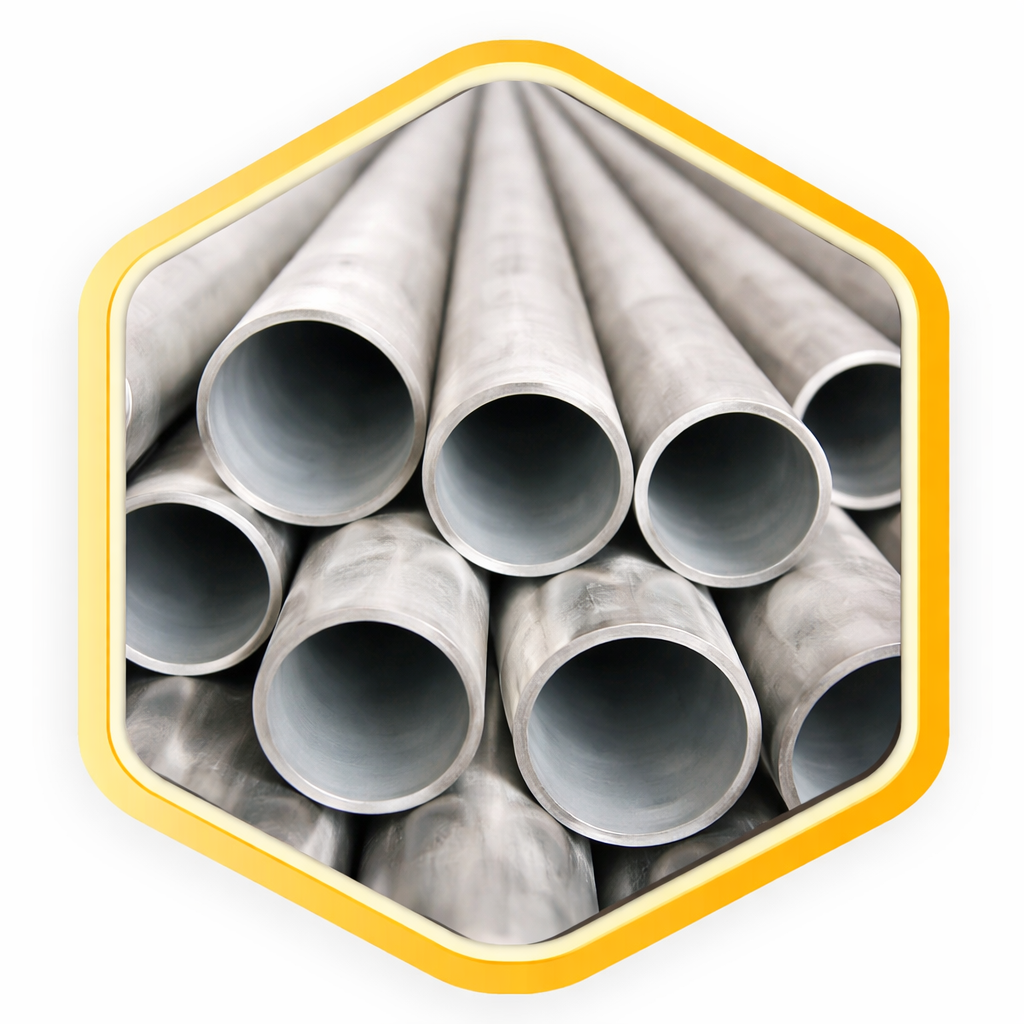
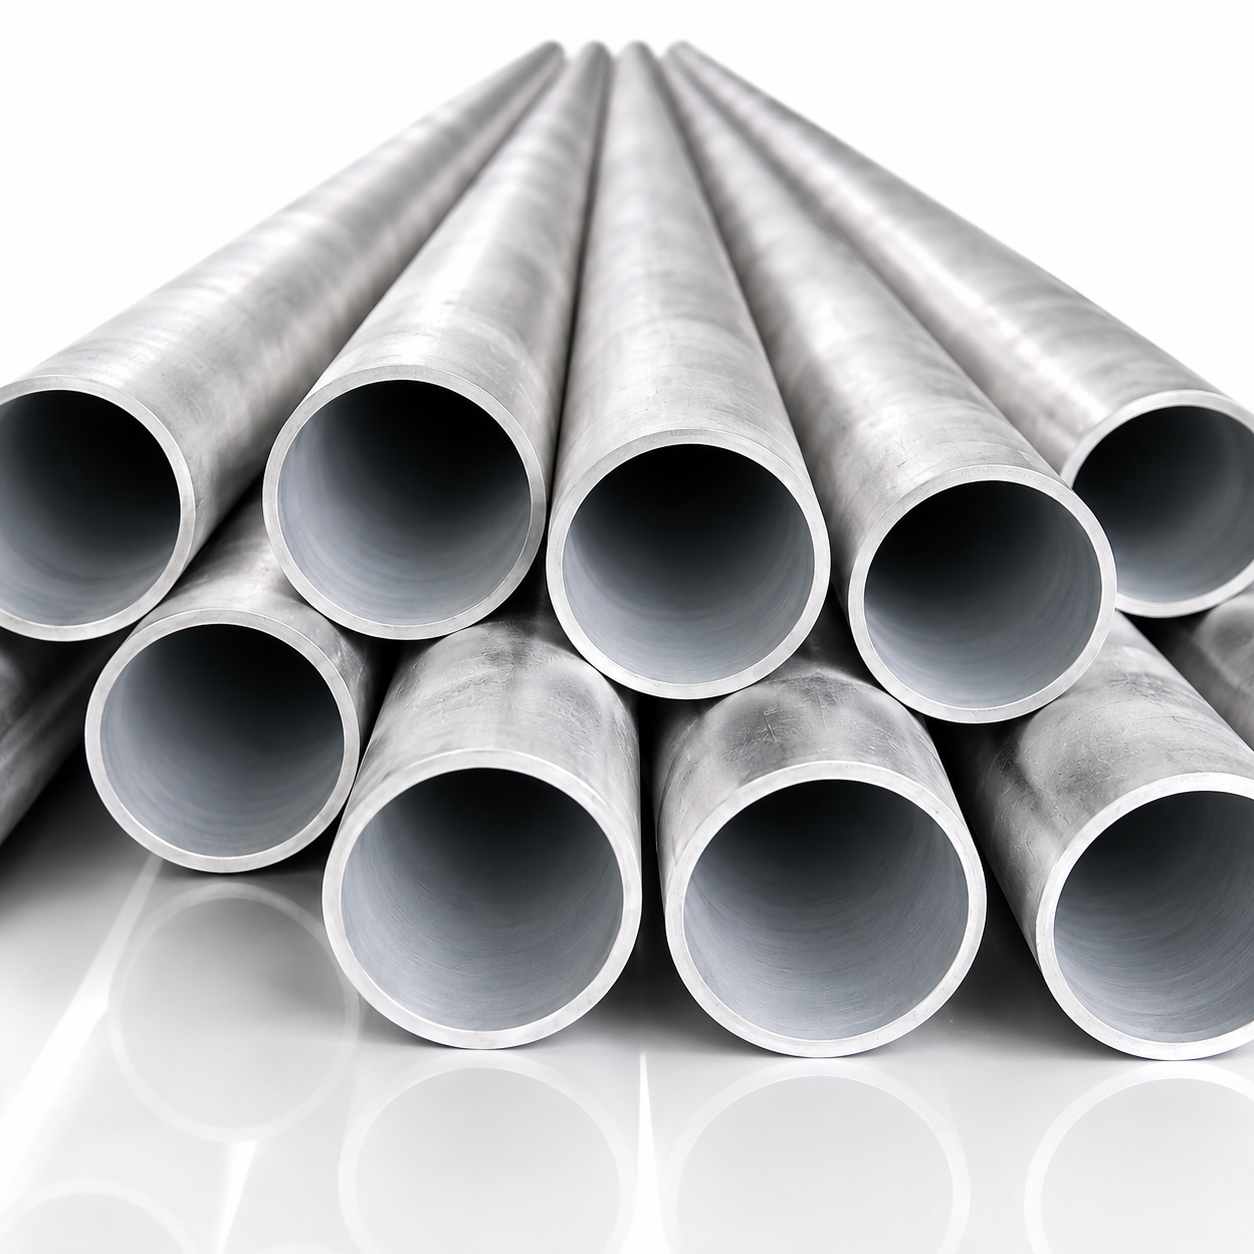
changed images for the stainless steel types

diff --git a/config/images/steel.ts b/config/images/steel.ts
@@ -17,11 +17,11 @@ export const STEEL_IMAGES = {
         sch10SsWeldedPipe1Png: '/Steel/pipes-tubes/types/erw/sch-10-ss-welded-pipe1.png',
       },
       tube: {
-        stainlessSteelSeamlessTube11Png: '/Steel/placeholder-stainlessSteelSeamlessTube11Png.jpg',
-        ssWeldedTubing11Png: '/Steel/placeholder-ssWeldedTubing11Png.jpg',
-        coldDrawnStainlessSteelTube11Png: '/Steel/placeholder-coldDrawnStainlessSteelTube11Png.jpg',
-        stainlessSteelRoundTube11Png: '/Steel/placeholder-stainlessSteelRoundTube11Png.jpg',
-        ssThickWallTubes11Png: '/Steel/placeholder-ssThickWallTubes11Png.jpg',
+        stainlessSteelSeamlessTube11Png: '/Steel/pipes-tubes/types/tube/stainless-steel-seamless-tube1.png',
+        ssWeldedTubing11Png: '/Steel/pipes-tubes/types/tube/ss-welded-tubing1.png',
+        coldDrawnStainlessSteelTube11Png: '/Steel/pipes-tubes/types/tube/cold-drawn-stainless-steel-tube1.png',
+        stainlessSteelRoundTube11Png: '/Steel/pipes-tubes/types/tube/stainless-steel-round-tube1.png',
+        ssThickWallTubes11Png: '/Steel/pipes-tubes/types/tube/ss-thick-wall-tubes1.png',
       },
       polished: {
         stainlessSteelPolishedPipe1Png: '/Steel/pipes-tubes/types/polished/stainless-steel-polished-pipe1.png',
